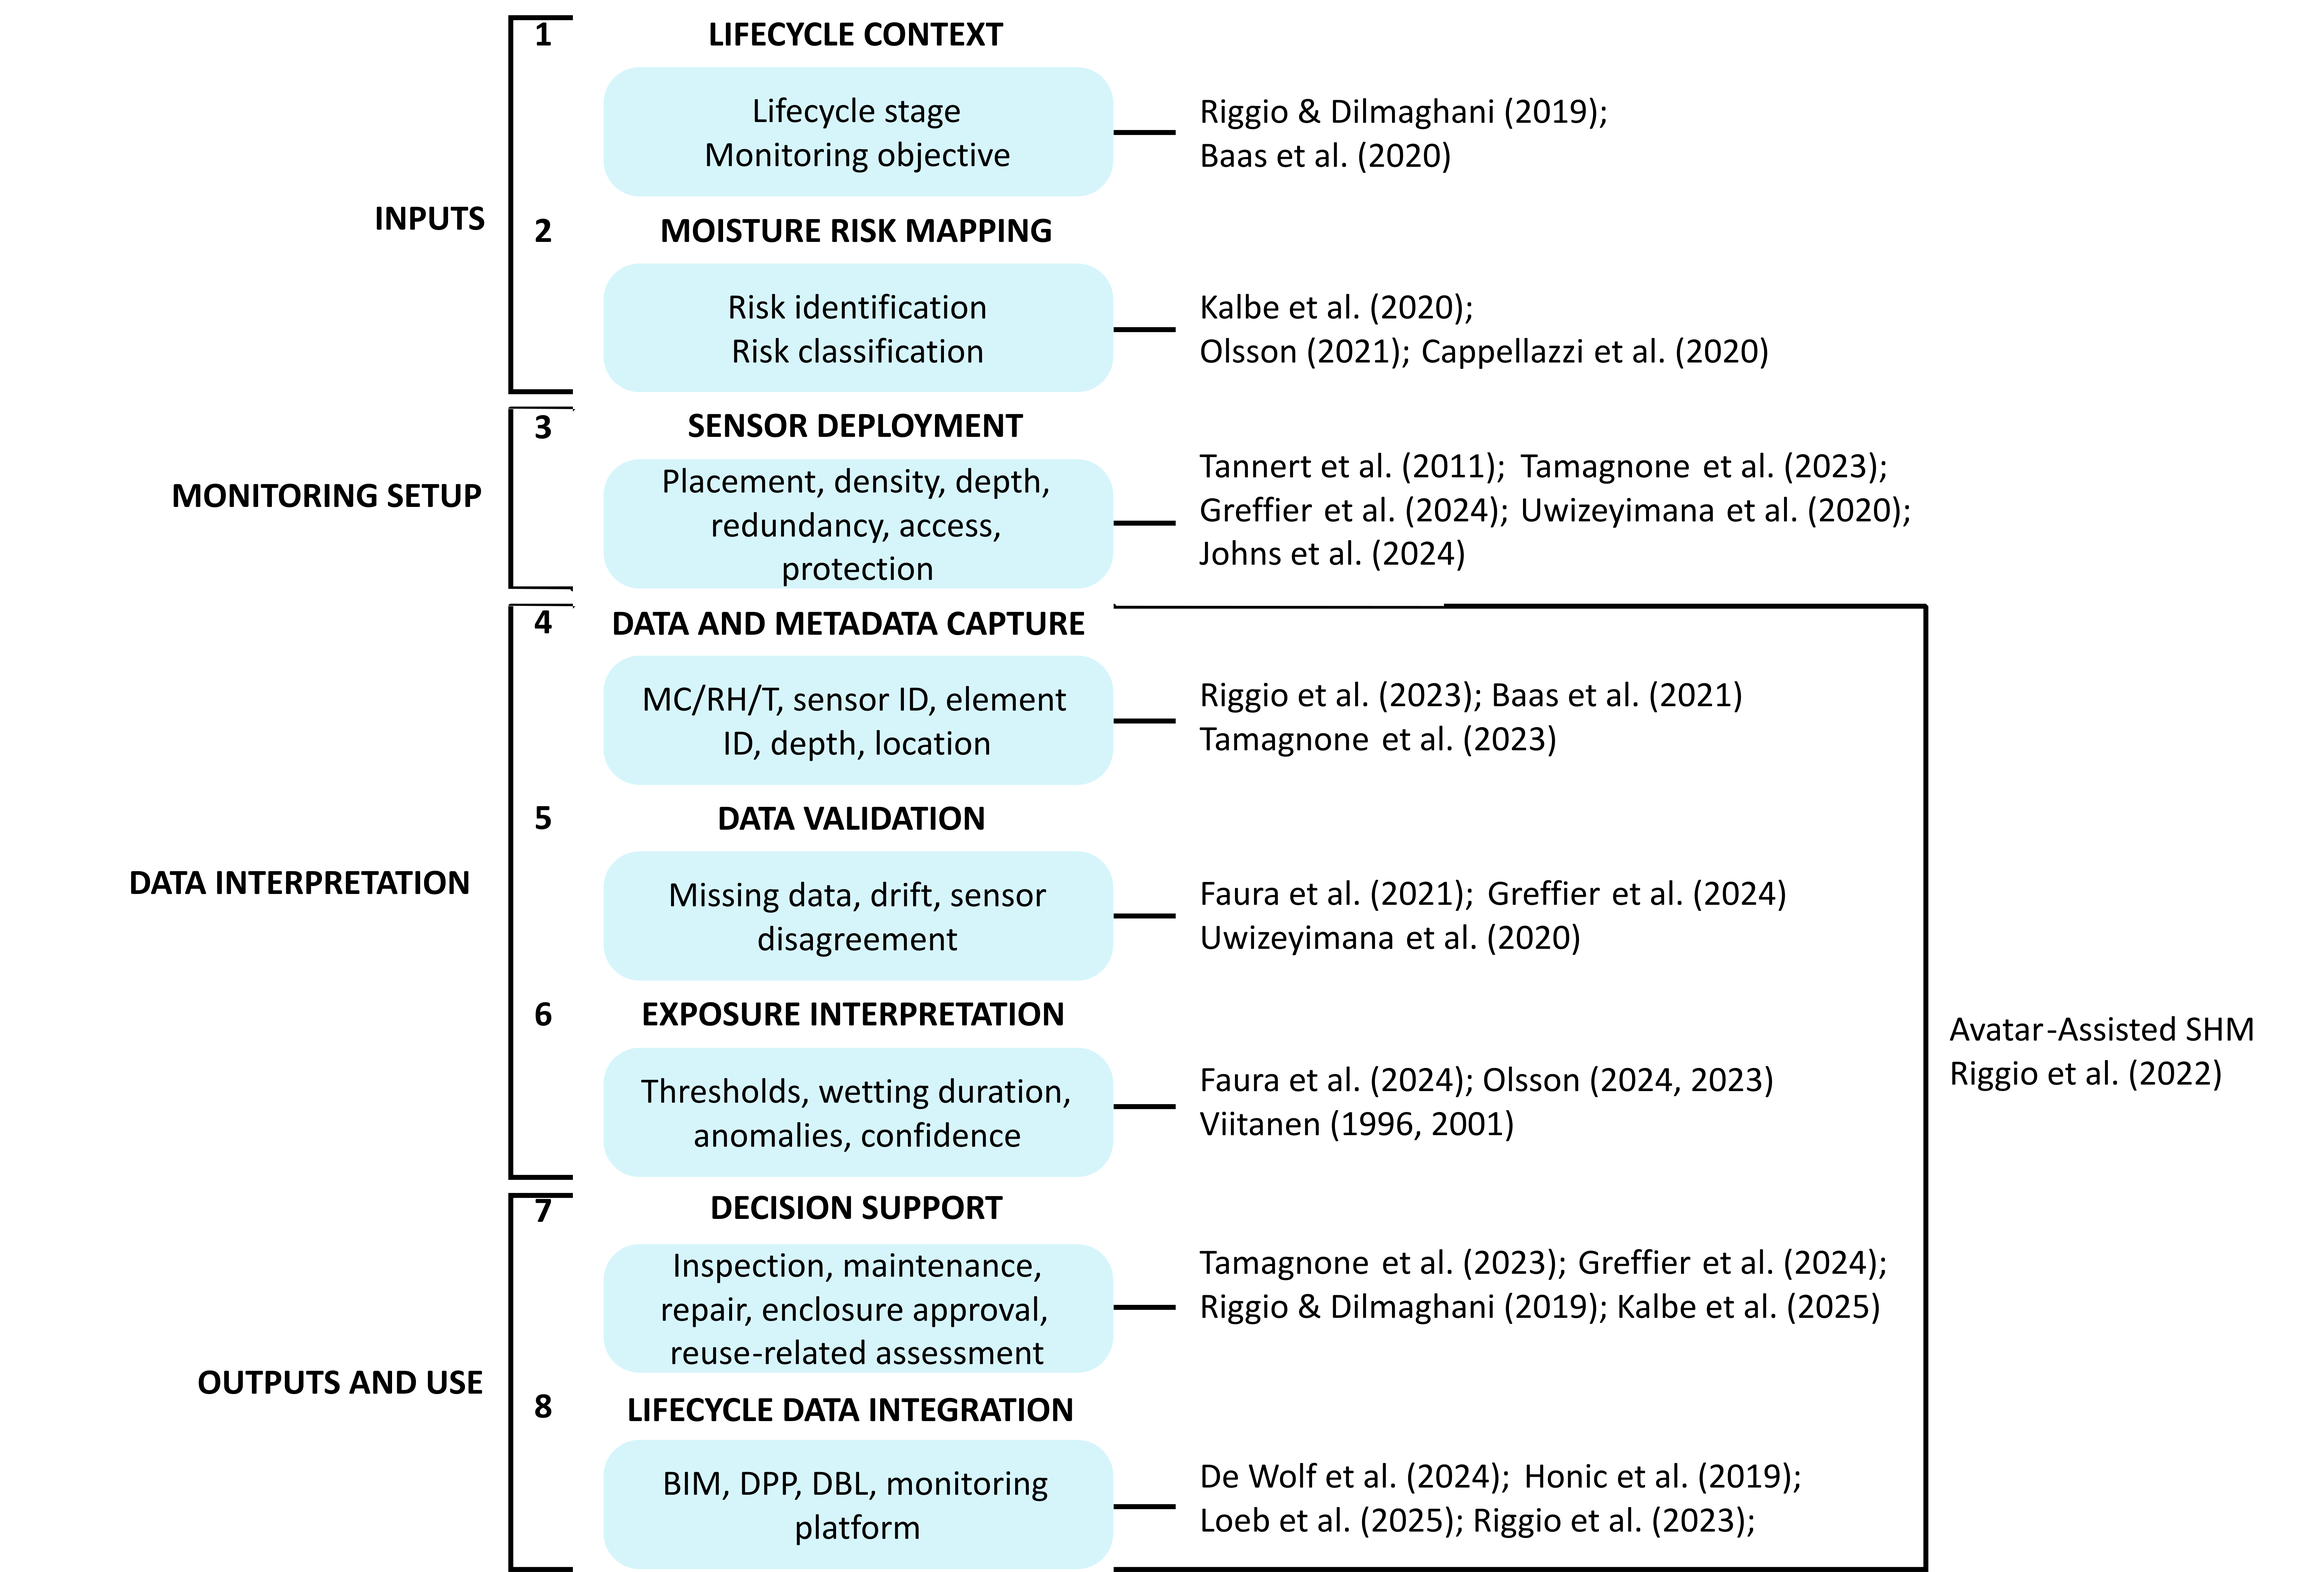
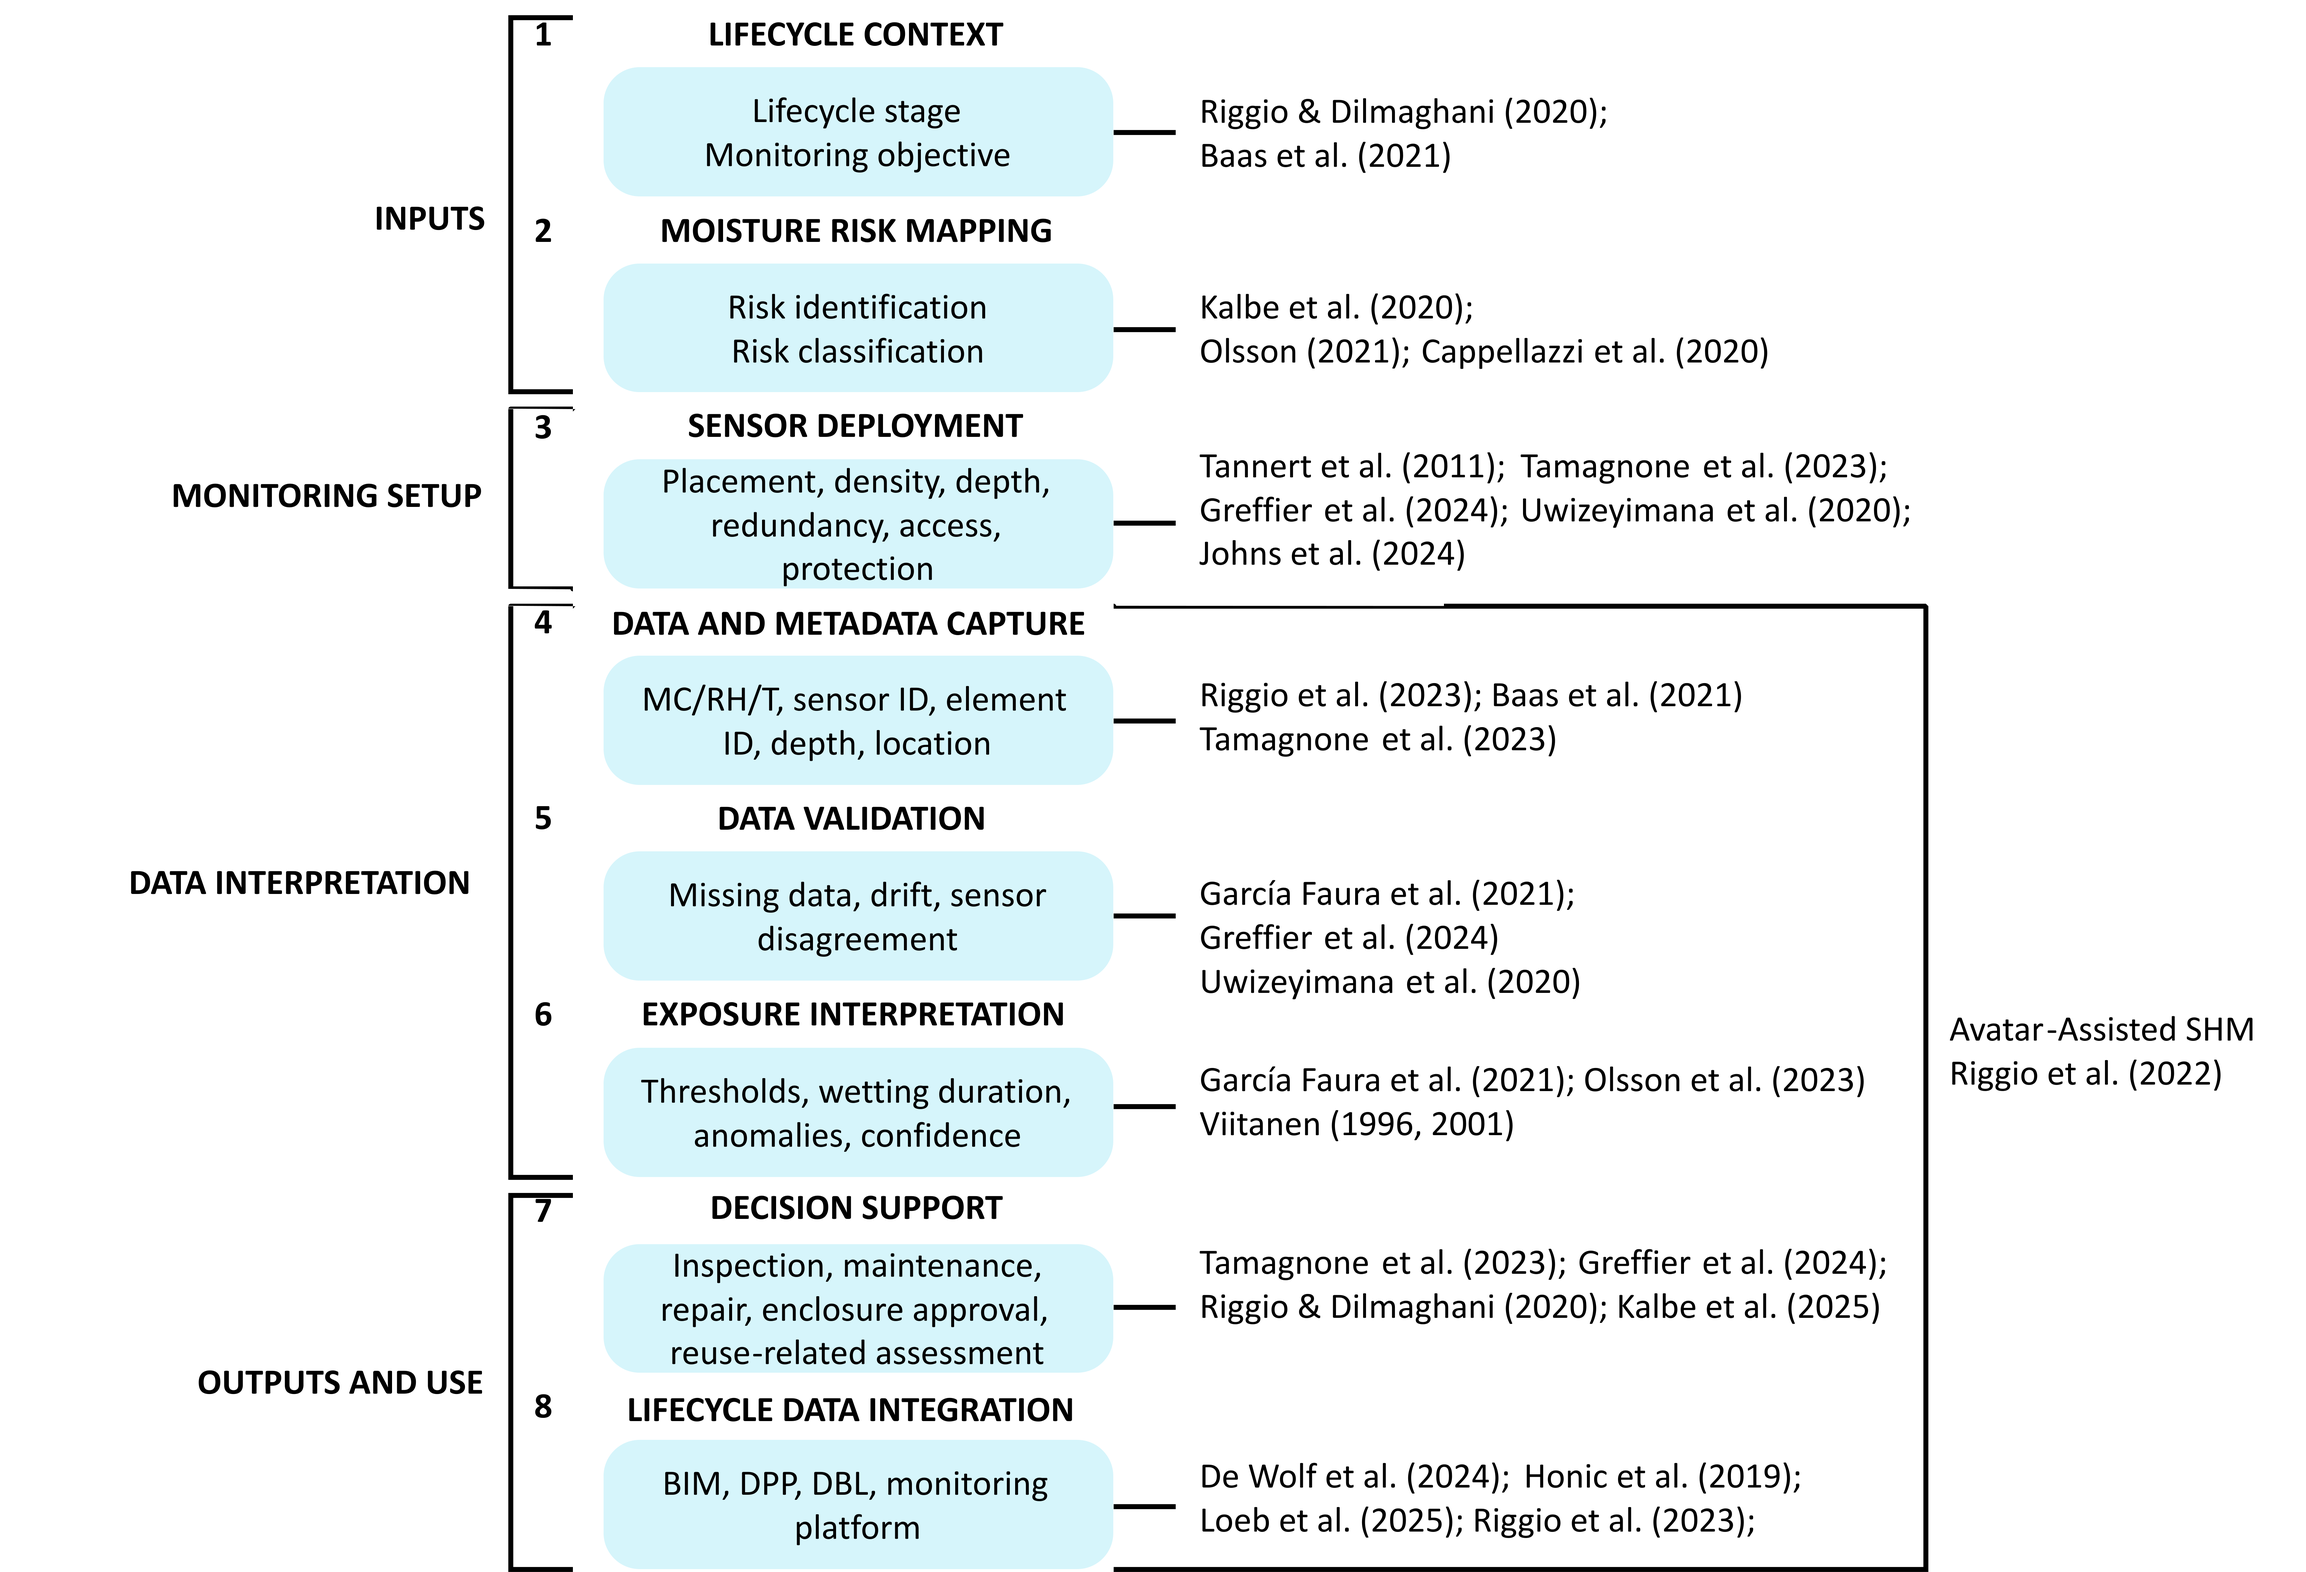
Reconcile framework evidence citations

diff --git a/05_framework_evidence_base/README.md b/05_framework_evidence_base/README.md
@@ -24,13 +24,13 @@ The publications associated with each layer are supporting evidence, rather than
 
 | Layer | Framework function | Supporting literature | Contribution to framework development |
 |---|---|---|---|
-| 1. Lifecycle context | Establishes lifecycle stage and monitoring objective before monitoring requirements are defined. | Riggio & Dilmaghani (2019); Baas et al. (2020) | Positions monitoring within lifecycle and structural-health-monitoring contexts and supports defining objectives before deployment. |
+| 1. Lifecycle context | Establishes lifecycle stage and monitoring objective before monitoring requirements are defined. | Riggio & Dilmaghani (2020); Baas et al. (2021) | Positions monitoring within lifecycle and structural-health-monitoring contexts and supports defining objectives before deployment. |
 | 2. Moisture risk mapping | Identifies moisture-prone locations and classifies their relative monitoring priority. | Kalbe et al. (2020); Olsson (2021); Cappellazzi et al. (2020) | Provides evidence on moisture-sensitive details, construction exposure, water ingress, drying limitations, and deterioration mechanisms. |
 | 3. Sensor deployment | Translates identified risks into placement, density, depth, redundancy, access, and protection decisions. | Tannert et al. (2011); Tamagnone et al. (2023); Greffier et al. (2024); Uwizeyimana et al. (2020); Johns et al. (2024) | Informs sensor location, depth, coverage, redundancy, accessibility, protection, and practical monitoring constraints. |
 | 4. Data and metadata capture | Defines measured values and context needed to preserve the meaning of monitoring records. | Riggio et al. (2023); Baas et al. (2021); Tamagnone et al. (2023) | Links MC, RH, and temperature to sensor and element identities, depth, location, and later interpretation context. |
-| 5. Data validation | Evaluates whether monitoring records are reliable enough for interpretation. | Faura et al. (2021); Greffier et al. (2024); Uwizeyimana et al. (2020) | Addresses missing data, anomalies, sensor disagreement, installation effects, drift, and other quality issues. |
-| 6. Exposure interpretation | Converts validated observations into indicators of moisture exposure and drying behaviour. | Faura et al. (2024); Olsson (2024, 2023); Viitanen (1996, 2001) | Supports thresholds, exposure duration, wetting and drying behaviour, anomalies, biological risk, and uncertainty. |
-| 7. Decision support | Connects interpreted information to inspection, maintenance, repair, enclosure approval, and reuse assessment. | Tamagnone et al. (2023); Greffier et al. (2024); Riggio & Dilmaghani (2019); Kalbe et al. (2025) | Supports identifying adverse conditions, targeting intervention, and supplying evidence for lifecycle decisions. |
+| 5. Data validation | Evaluates whether monitoring records are reliable enough for interpretation. | García Faura et al. (2021); Greffier et al. (2024); Uwizeyimana et al. (2020) | Addresses missing data, anomalies, sensor disagreement, installation effects, drift, and other quality issues. |
+| 6. Exposure interpretation | Converts validated observations into indicators of moisture exposure and drying behaviour. | García Faura et al. (2021); Olsson et al. (2023); Viitanen (1996, 2001) | Supports thresholds, exposure duration, wetting and drying behaviour, anomalies, biological risk, and uncertainty. |
+| 7. Decision support | Connects interpreted information to inspection, maintenance, repair, enclosure approval, and reuse assessment. | Tamagnone et al. (2023); Greffier et al. (2024); Riggio & Dilmaghani (2020); Kalbe et al. (2025) | Supports identifying adverse conditions, targeting intervention, and supplying evidence for lifecycle decisions. |
 | 8. Lifecycle data integration | Preserves monitoring information in digital systems across lifecycle stages. | De Wolf et al. (2024); Honic et al. (2019); Loeb et al. (2025); Riggio et al. (2023) | Supports structured information management through BIM, product passports, building logbooks, and monitoring platforms. |
 
 ## Cross-layer concept: Avatar-Assisted Structural Health Monitoring
@@ -39,16 +39,13 @@ Supporting literature: Riggio et al. (2022).
 
 Avatar-Assisted Structural Health Monitoring connects sensor observations with contextual information and a persistent digital representation of a physical timber element. It is relevant across data and metadata capture, data validation, exposure interpretation, decision support, and lifecycle data integration. It therefore provides precedent for treating monitoring data as part of a broader information process rather than as isolated measurements.
 
-## Bibliographic reconciliation
+## Source accounting and publication-year policy
 
-The figure is reproduced without alteration. Verification against publisher and institutional records identified four year-label issues for later correction in the source artwork:
+The framework map and the reference list below contain exactly **20 unique retained publications**, consistent with the methodology. A publication may support more than one layer but is counted only once in the retained-study total.
 
-- **Riggio & Dilmaghani (2019)** was published online in 2019 and assigned to a 2020 journal issue; the reference below uses 2020.
-- **Baas et al. (2020)** was available online in 2020 and assigned to a 2021 journal volume; the reference below uses 2021.
-- **Faura et al. (2024)** could not be matched to a separate supporting publication. The identifiable record is García Faura et al. (2021), already used in Layer 5.
-- **Olsson (2024)** could not be matched unambiguously. The verified records represented here are Olsson et al. (2023) and Olsson (2021).
+Author–year labels use the year of the version of record: the journal issue or published proceedings. Online-first dates are not counted as separate publications. Applying this policy resolves the earlier duplicate labels for Riggio and Dilmaghani (online in 2019; issue year 2020) and Baas et al. (online in 2020; volume year 2021).
 
-The labels remain in the map because they appear in the source artwork. No bibliographic record has been invented to force a match. The artwork also contains more distinct author–year labels than the 20 studies reported as retained; additional contextual sources may have been added during framework development, and this should be reconciled with the review inventory.
+García Faura et al. (2021) supports both data validation and exposure interpretation; the former “Faura et al. (2024)” label referred to no separate publication. Olsson et al. (2023) is the verified source used for critical moisture conditions; no additional relevant Olsson (2024) record is included. The compound surname **García Faura** is used consistently.
 
 ## Full bibliographic references
 
